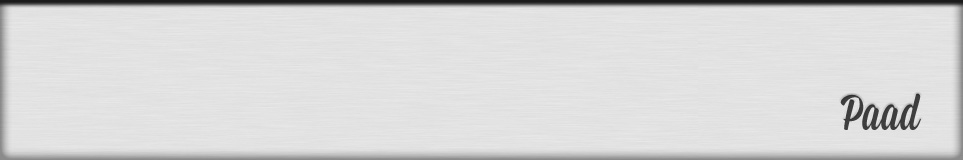
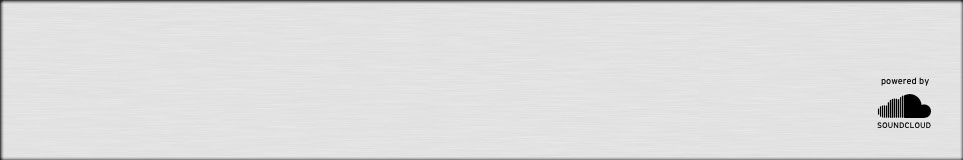
Coffee

Changed region(s): [[0.0, 0.0, 1.0, 1.0]]

diff --git a/public/javascripts/kit.js b/public/javascripts/kit.js
@@ -19,6 +19,9 @@
       if (this.playInterval != null) {
         return;
       }
+      if (this.backingTrackId != null) {
+        this.backGroundTrackPlaying = window.playBackground(this.backingTrackId);
+      }
       return this.playInterval = setInterval(function() {
         _this.playing = true;
         $(".indicator").removeClass("active");
@@ -52,10 +55,15 @@
       this.playing = false;
       if (this.playInterval != null) {
         clearInterval(this.playInterval);
-        return this.playInterval = void 0;
+        this.playInterval = void 0;
+        if (this.backGroundTrackPlaying != null) {
+          return this.backGroundTrackPlaying.pause();
+        }
       } else {
         this.activeNote = 0;
-        return $(".indicator").removeClass("active");
+        $(".indicator").removeClass("active");
+        $(".playing").removeClass("playing");
+        return socket.emit("clearAll");
       }
     };
 
@@ -133,14 +141,14 @@
 
   window.loadedTracks = void 0;
 
-  window.kits = [["Kick", "Hat", "Thing", "Whatever", "Something", "Stuff", "Whatever", "Otherthing"]];
+  window.kits = [["Kick", "Hat", "Thing", "Whatever", "Something", "Stuff", "Whatever", "Otherthing"], ["Bass", "Bell", "Corny", "Drums", "Electro", "Pianobell", "Woody", "Bass x2"], ["Closed Hi Hat", "Crash", "Floor Tom", "Kick", "Open Hi Hat", "Rack Tom", "Ride", "Snare"]];
 
-  window.selectedKit = 0;
+  window.selectedKit = 1;
 
   audioInit = function() {
     window.AudioContext = window.AudioContext || window.webkitAudioContext;
     context = new AudioContext();
-    bufferLoader = new BufferLoader(context, ["sounds/kit1/0.wav", "sounds/kit1/1.wav", "sounds/kit1/2.wav", "sounds/kit1/3.wav", "sounds/kit1/4.wav", "sounds/kit1/5.wav", "sounds/kit1/6.wav", "sounds/kit1/7.wav"], finishedLoading);
+    bufferLoader = new BufferLoader(context, ["sounds/kit1/0.wav", "sounds/kit1/1.wav", "sounds/kit1/2.wav", "sounds/kit1/3.wav", "sounds/kit1/4.wav", "sounds/kit1/5.wav", "sounds/kit1/6.wav", "sounds/kit1/7.wav", "sounds/kit2/bass.ogg", "sounds/kit2/bell.ogg", "sounds/kit2/corny4.ogg", "sounds/kit2/drums.ogg", "sounds/kit2/electro_4.ogg", "sounds/kit2/pianobell.ogg", "sounds/kit2/woody.ogg", "sounds/kit2/bass_10.ogg", "sounds/kit3/0.wav", "sounds/kit3/1.wav", "sounds/kit3/2.wav", "sounds/kit3/3.wav", "sounds/kit3/4.wav", "sounds/kit3/5.wav", "sounds/kit3/6.wav", "sounds/kit3/7.wav"], finishedLoading);
     return bufferLoader.load();
   };
 
@@ -154,6 +162,17 @@
     source.buffer = buffer;
     source.connect(context.destination);
     return source.start(time);
+  };
+
+  window.playBackground = function(id) {
+    var audio, source, url;
+    url = "http://api.soundcloud.com/tracks/" + id + "/stream?client_id=435a565aaa07ebba76881f95805f6bf7";
+    audio = new Audio();
+    audio.src = url;
+    source = context.createMediaElementSource(audio);
+    source.connect(context.destination);
+    source.mediaElement.play();
+    return source.mediaElement;
   };
 
   $(document).ready(function() {
@@ -170,7 +189,11 @@
         id: data,
         name: window.kits[window.selectedKit][sequencer.tracks.length]
       }).appendTo(".key-wrapper");
-      return sequencer.tracks.push(new Track(data, sequencer.tracks.length + 1));
+      sequencer.tracks.push(new Track(data, sequencer.tracks.length + 1));
+      return socket.emit("trackTitle", {
+        id: data,
+        title: window.kits[window.selectedKit][sequencer.tracks.length]
+      });
     });
     socket.on("deleteSocket", function(data) {
       $("#" + data).parent().remove();
@@ -205,15 +228,38 @@
       $(".play").removeClass("active");
       return sequencer.stop();
     });
-    return $(".slider").noUiSlider({
-      range: [30, 280],
+    $(".record").click(function(event) {
+      return $(this).addClass("active");
+    });
+    $(".slider").noUiSlider({
+      range: [30, 400],
       start: 130,
       handles: 1,
       step: 5,
       slide: function() {
-        $(".bpm .count").text($(this).val());
+        if ($(this).val() > 300) {
+          $(".bpm .count").text("ERR");
+        } else {
+          $(".bpm .count").text($(this).val());
+        }
         return sequencer.changeBpm($(this).val());
       }
+    });
+    $(".backing-track").change(function(event) {
+      return sequencer.backingTrackId = $(this).val();
+    });
+    return $(".load-track").click(function(event) {
+      var kit;
+      sequencer.stop();
+      kit = window.prompt("Which kit?", "Enter 0 through " + (window.kits.length - 1));
+      window.selectedKit = parseInt(kit);
+      return _.each($(".track-title"), function(title, index) {
+        $(title).text(window.kits[window.selectedKit][index]);
+        return socket.emit("trackTitle", {
+          id: $(title).siblings("ul").attr("id"),
+          title: window.kits[window.selectedKit][index]
+        });
+      });
     });
   });
 

diff --git a/public/stylesheets/styles.css b/public/stylesheets/styles.css
@@ -8,7 +8,7 @@
 
 html {
   height: 100%;
-  background: linear-gradient(#525252, #1e1e1e);
+  background: #525252;
   color: #ffeeff;
   font-family: "ds-digitalnormal", sans-serif;
   -webkit-font-smoothing: antialiased;
@@ -17,9 +17,9 @@ html {
 .container {
   width: 962px;
   height: 610px;
-  background: url("/images/container.png");
+  background: url("/images/container.jpg");
   margin: 30px auto;
-  padding: 30px 30px 60px 30px;
+  padding: 28px 30px 60px 30px;
   box-shadow: 0px 0px 60px #111111;
   border-radius: 10px;
 }
@@ -240,9 +240,9 @@ span:hover {
 }
 
 .controls {
-  width: 183px;
+  width: 200px;
   float: left;
-  margin-left: 215px;
+  margin-left: 200px;
 }
 .controls a {
   display: block;
@@ -291,4 +291,38 @@ span:hover {
 }
 .controls .record.active {
   background: url("/images/controls-record-on.png");
+}
+
+.backing-track {
+  background: #222222;
+  border: none;
+  box-shadow: inset 0px 0px 10px black;
+  height: 20px;
+  border-radius: 3px;
+  color: #ff9000;
+  padding-left: 4px;
+  padding-right: 4px;
+  font-family: "ds-digitalnormal", sans-serif;
+  font-size: 17px;
+  float: right;
+  margin-right: 30px;
+  margin-top: 37px;
+  width: 100px;
+  text-align: center;
+}
+
+::-webkit-input-placeholder {
+  color: #ff9000;
+}
+
+.center {
+  text-align: center;
+}
+
+.no-bg h1 {
+  color: #ff9000;
+}
+
+.full {
+  display: none;
 }

diff --git a/assets/stylesheets/styles.sass b/assets/stylesheets/styles.sass
@@ -15,7 +15,7 @@ $font: 'ds-digitalnormal', sans-serif
 
 html
   height: 100%
-  background: linear-gradient(#525252, #1e1e1e) /* the standard */
+  background: #525252 /* the standard */
   color: $white
   font-family: $font
   -webkit-font-smoothing: antialiased
@@ -23,9 +23,9 @@ html
 .container
   width: 962px
   height: 610px
-  background: url("/images/container.png")
+  background: url("/images/container.jpg")
   margin: 30px auto
-  padding: 30px 30px 60px 30px
+  padding: 28px 30px 60px 30px
   box-shadow: 0px 0px 60px $black
   border-radius: 10px
 
@@ -240,9 +240,9 @@ span:hover
     margin-top: 2px
 
 .controls
-  width: 183px
+  width: 200px
   float: left
-  margin-left: 215px
+  margin-left: 200px
 
   a
     display: block
@@ -294,3 +294,34 @@ span:hover
 
     &.active
       background: url("/images/controls-record-on.png")
+
+.backing-track
+  background: rgb(34, 34, 34)
+  border: none
+  box-shadow: inset 0px 0px 10px rgb(0, 0, 0)
+  height: 20px
+  border-radius: 3px
+  color: $orange
+  padding-left: 4px
+  padding-right: 4px
+  font-family: $font
+  font-size: 17px
+
+  float: right
+  margin-right: 30px
+  margin-top: 37px
+  width: 100px
+  text-align: center
+
+::-webkit-input-placeholder
+  color: $orange
+
+.center
+  text-align: center
+
+.no-bg
+  h1
+    color: $orange
+
+.full
+  display: none

diff --git a/public/javascripts/client.js b/public/javascripts/client.js
@@ -10,9 +10,27 @@
     socket.on("deleteKitSocket", function() {
       return $("ul.row li").removeClass("active");
     });
-    return socket.on("activeNote", function(data) {
+    socket.on("activeNote", function(data) {
       $(".playing").removeClass("playing");
       return $(".k" + data).addClass("playing");
+    });
+    socket.on("trackTitle", function(data) {
+      return $("h1").text(data);
+    });
+    socket.on("activeClient", function() {
+      $(".full").hide();
+      return $(".open").show();
+    });
+    socket.on("inactiveClient", function() {
+      $(".open").hide();
+      return $(".full").show();
+    });
+    return socket.on("clearAll", function() {
+      $(".playing").removeClass("playing");
+      return $("ul.row li.active").each(function(index, activeBeat) {
+        $(activeBeat).removeClass("active");
+        return socket.emit("toggle", $(activeBeat).data("key"));
+      });
     });
   });
 

diff --git a/app.js b/app.js
@@ -47,7 +47,10 @@ app.kit = undefined;
 io.sockets.on('connection', function (socket) {
   // We only have space for 16 bars
   if (app.clients.length >= 8) {
+    socket.emit('inactiveClient')
     return;
+  } else {
+    socket.emit('activeClient')
   }
 
   if (socket.id != app.kit) {
@@ -77,8 +80,16 @@ io.sockets.on('connection', function (socket) {
     socket.broadcast.emit('toggle', {socket: socket.id, message: data});
   });
 
+  socket.on('clearAll', function() {
+    socket.broadcast.emit('clearAll');
+  })
+
   socket.on('activeNote', function(data) {
     socket.broadcast.emit('activeNote', data)
+  })
+
+  socket.on('trackTitle', function(data) {
+    io.sockets.sockets[data["id"]].emit("trackTitle", data["title"])
   })
 
   // Oh no! Yer gone

diff --git a/public/callback.html b/public/callback.html
@@ -1,0 +1,9 @@
+<!DOCTYPE html>
+<html lang="en">
+  <head><meta http-equiv="Content-Type" content="text/html; charset=utf-8">
+    <title>Connect with SoundCloud</title>
+  </head>
+  <body onload="window.opener.setTimeout(window.opener.SC.connectCallback, 1)">
+    <b style="width: 100%; text-align: center;">This popup should automatically close in a few seconds</b>
+  </body>
+</html>
